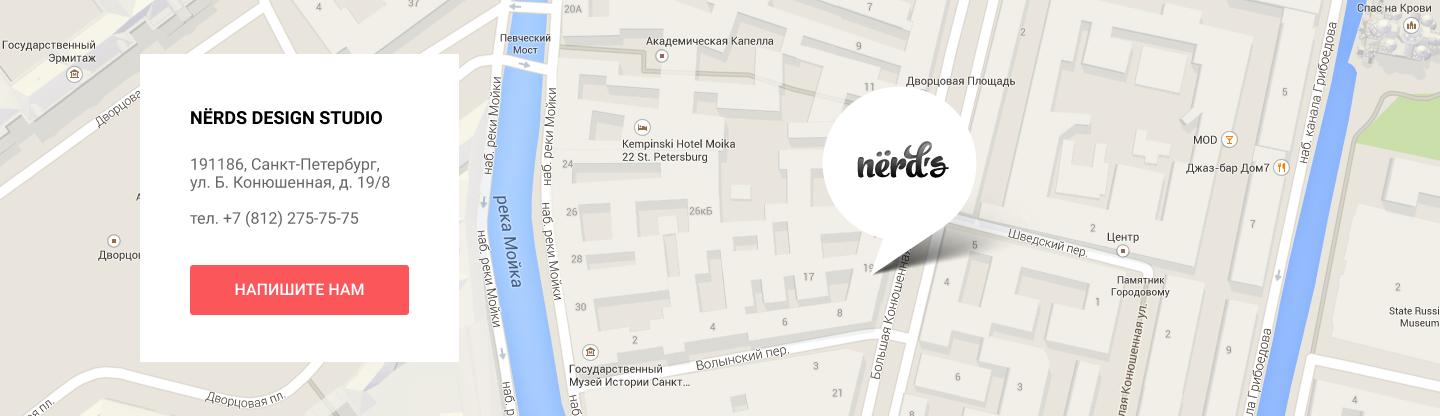
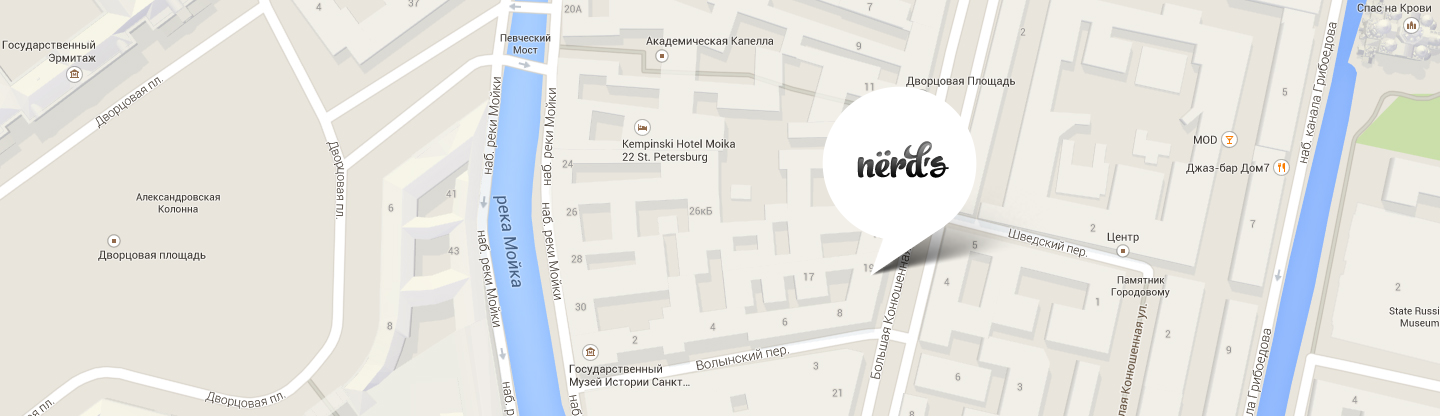
Исправляю карту и секцию каталога

Changed region(s): [[0.0938, 0.125, 0.3438, 0.875]]

diff --git a/css/style.css b/css/style.css
@@ -39,11 +39,11 @@
 .about-us {
   display: flex;
   align-items: center;
-  padding-bottom: 73px;
+  padding-bottom: 59px;
 }
 .about-us img {
-  margin-top: 39px;
-  margin-bottom: 37px;
+  margin-bottom: 22px;
+  margin-top: 8px;
 }
 .about-us .list {
   display: flex;
@@ -51,19 +51,26 @@
   justify-content: left;
   align-items: center;
 }
+.about-us + section {
+  margin-bottom: 80px;
+}
 .about-us-top.top {
   margin-top: 27px;
 }
 .advantages-list {
   font-family: Roboto, Arial, sans-serif;
   font-weight: bold;
+  font-size: 16px;
+}
+.advantages-list:first-of-type {
   text-transform: uppercase;
+  margin-left: 15px;
 }
 .advantages-ul {
   display: flex;
 }
-.advantages-ul li {
-  margin-right: 21px;
+.advantages-ul li:not(:last-child) {
+  margin-right: 20px;
 }
 .button-1 {
   background-color: var(--button-1);
@@ -106,7 +113,8 @@
   font-family: Roboto, Arial, sans-serif;
   line-height: 18px;
   color: var(--contact);
-  margin-top: 23px;
+  margin-top: 26px;
+  margin-bottom: 0;
 }
 .cost {
   width: 260px;
@@ -152,6 +160,7 @@
   font-weight: bold;
   font-size: 45px;
   margin-bottom: 11px;
+  margin-top: 23px;
 }
 .direction {
   width: 11px;
@@ -277,12 +286,10 @@ li:hover .template-H {
 }
 .map {
   background-image: url(../img/map.png);
+  background-size: 100%;
   background-color: var(--background-2);
-  width: 1300px;
   height: 362px;
   padding-top: 54px;
-  padding-left: 140px;
-  margin: 0 auto;
 }
 .map button {
   width: 219px;
@@ -298,7 +305,9 @@ li:hover .template-H {
   height: 248px;
   background-color: var(--light);
   padding-left: 50px;
-  padding-top: 32px;
+  padding-top: 37px;
+  padding-bottom: 37px;
+  margin-left: 140px;
 }
 .min {
   position: absolute;
@@ -530,9 +539,6 @@ nav a:not(:last-child) {
   margin-top: 25px;
   margin-bottom: 16px;
 }
-.shop {
-  display: flex;
-}
 .sortli {
   text-transform: uppercase;
 }
@@ -578,7 +584,7 @@ span {
 .tel {
   font-family: Roboto, Arial, sans-serif;
   color: var(--contact);
-  margin-top: 23px;
+  margin-top: 18px;
   margin-bottom: 37px;
 }
 .template-H {

diff --git a/catalog.html b/catalog.html
@@ -38,8 +38,8 @@
   </header>
   <main>
     <h1>Магазин готовых шаблонов</h1>
-    <div class="position">
-      <section class="shop">
+    <section class="shop">
+      <div class="position top">
         <aside class="customization">
           <form>
             <p class="label">
@@ -196,8 +196,8 @@
             </button>
           </div>
         </div>
-      </section>
-    </div>
+      </div>
+    </section>
   </main>
   <footer>
     <div class="map">
